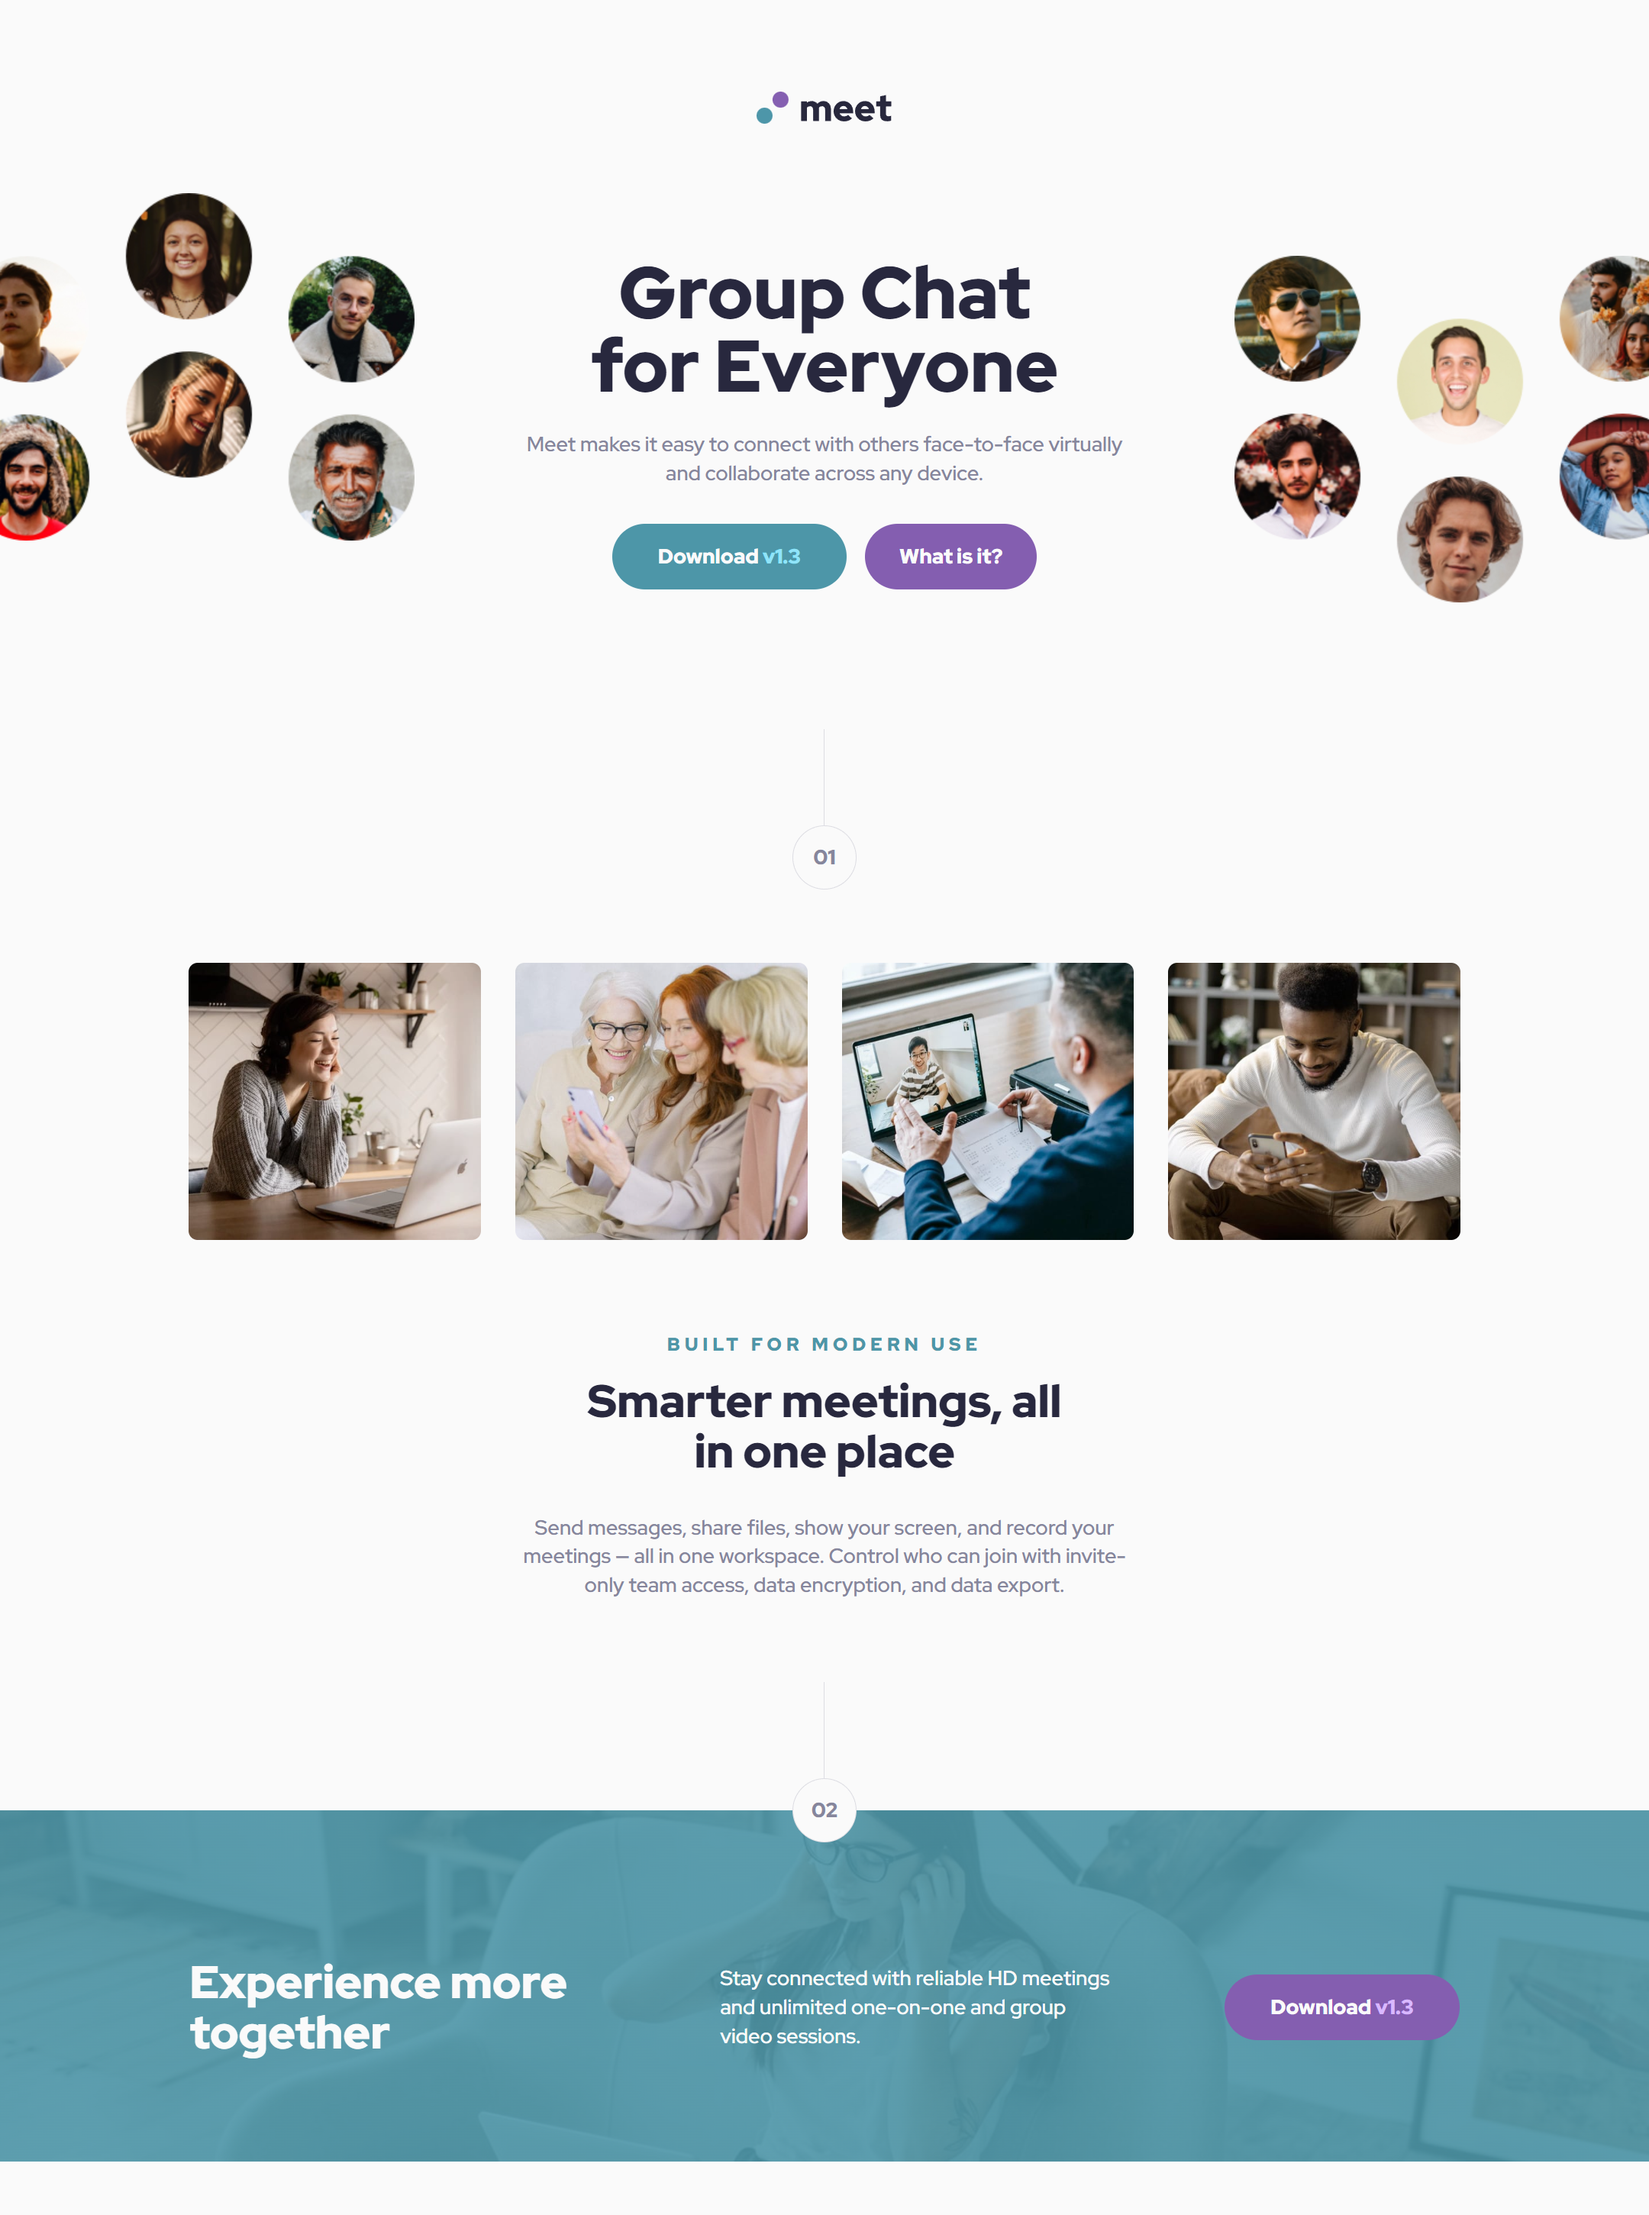
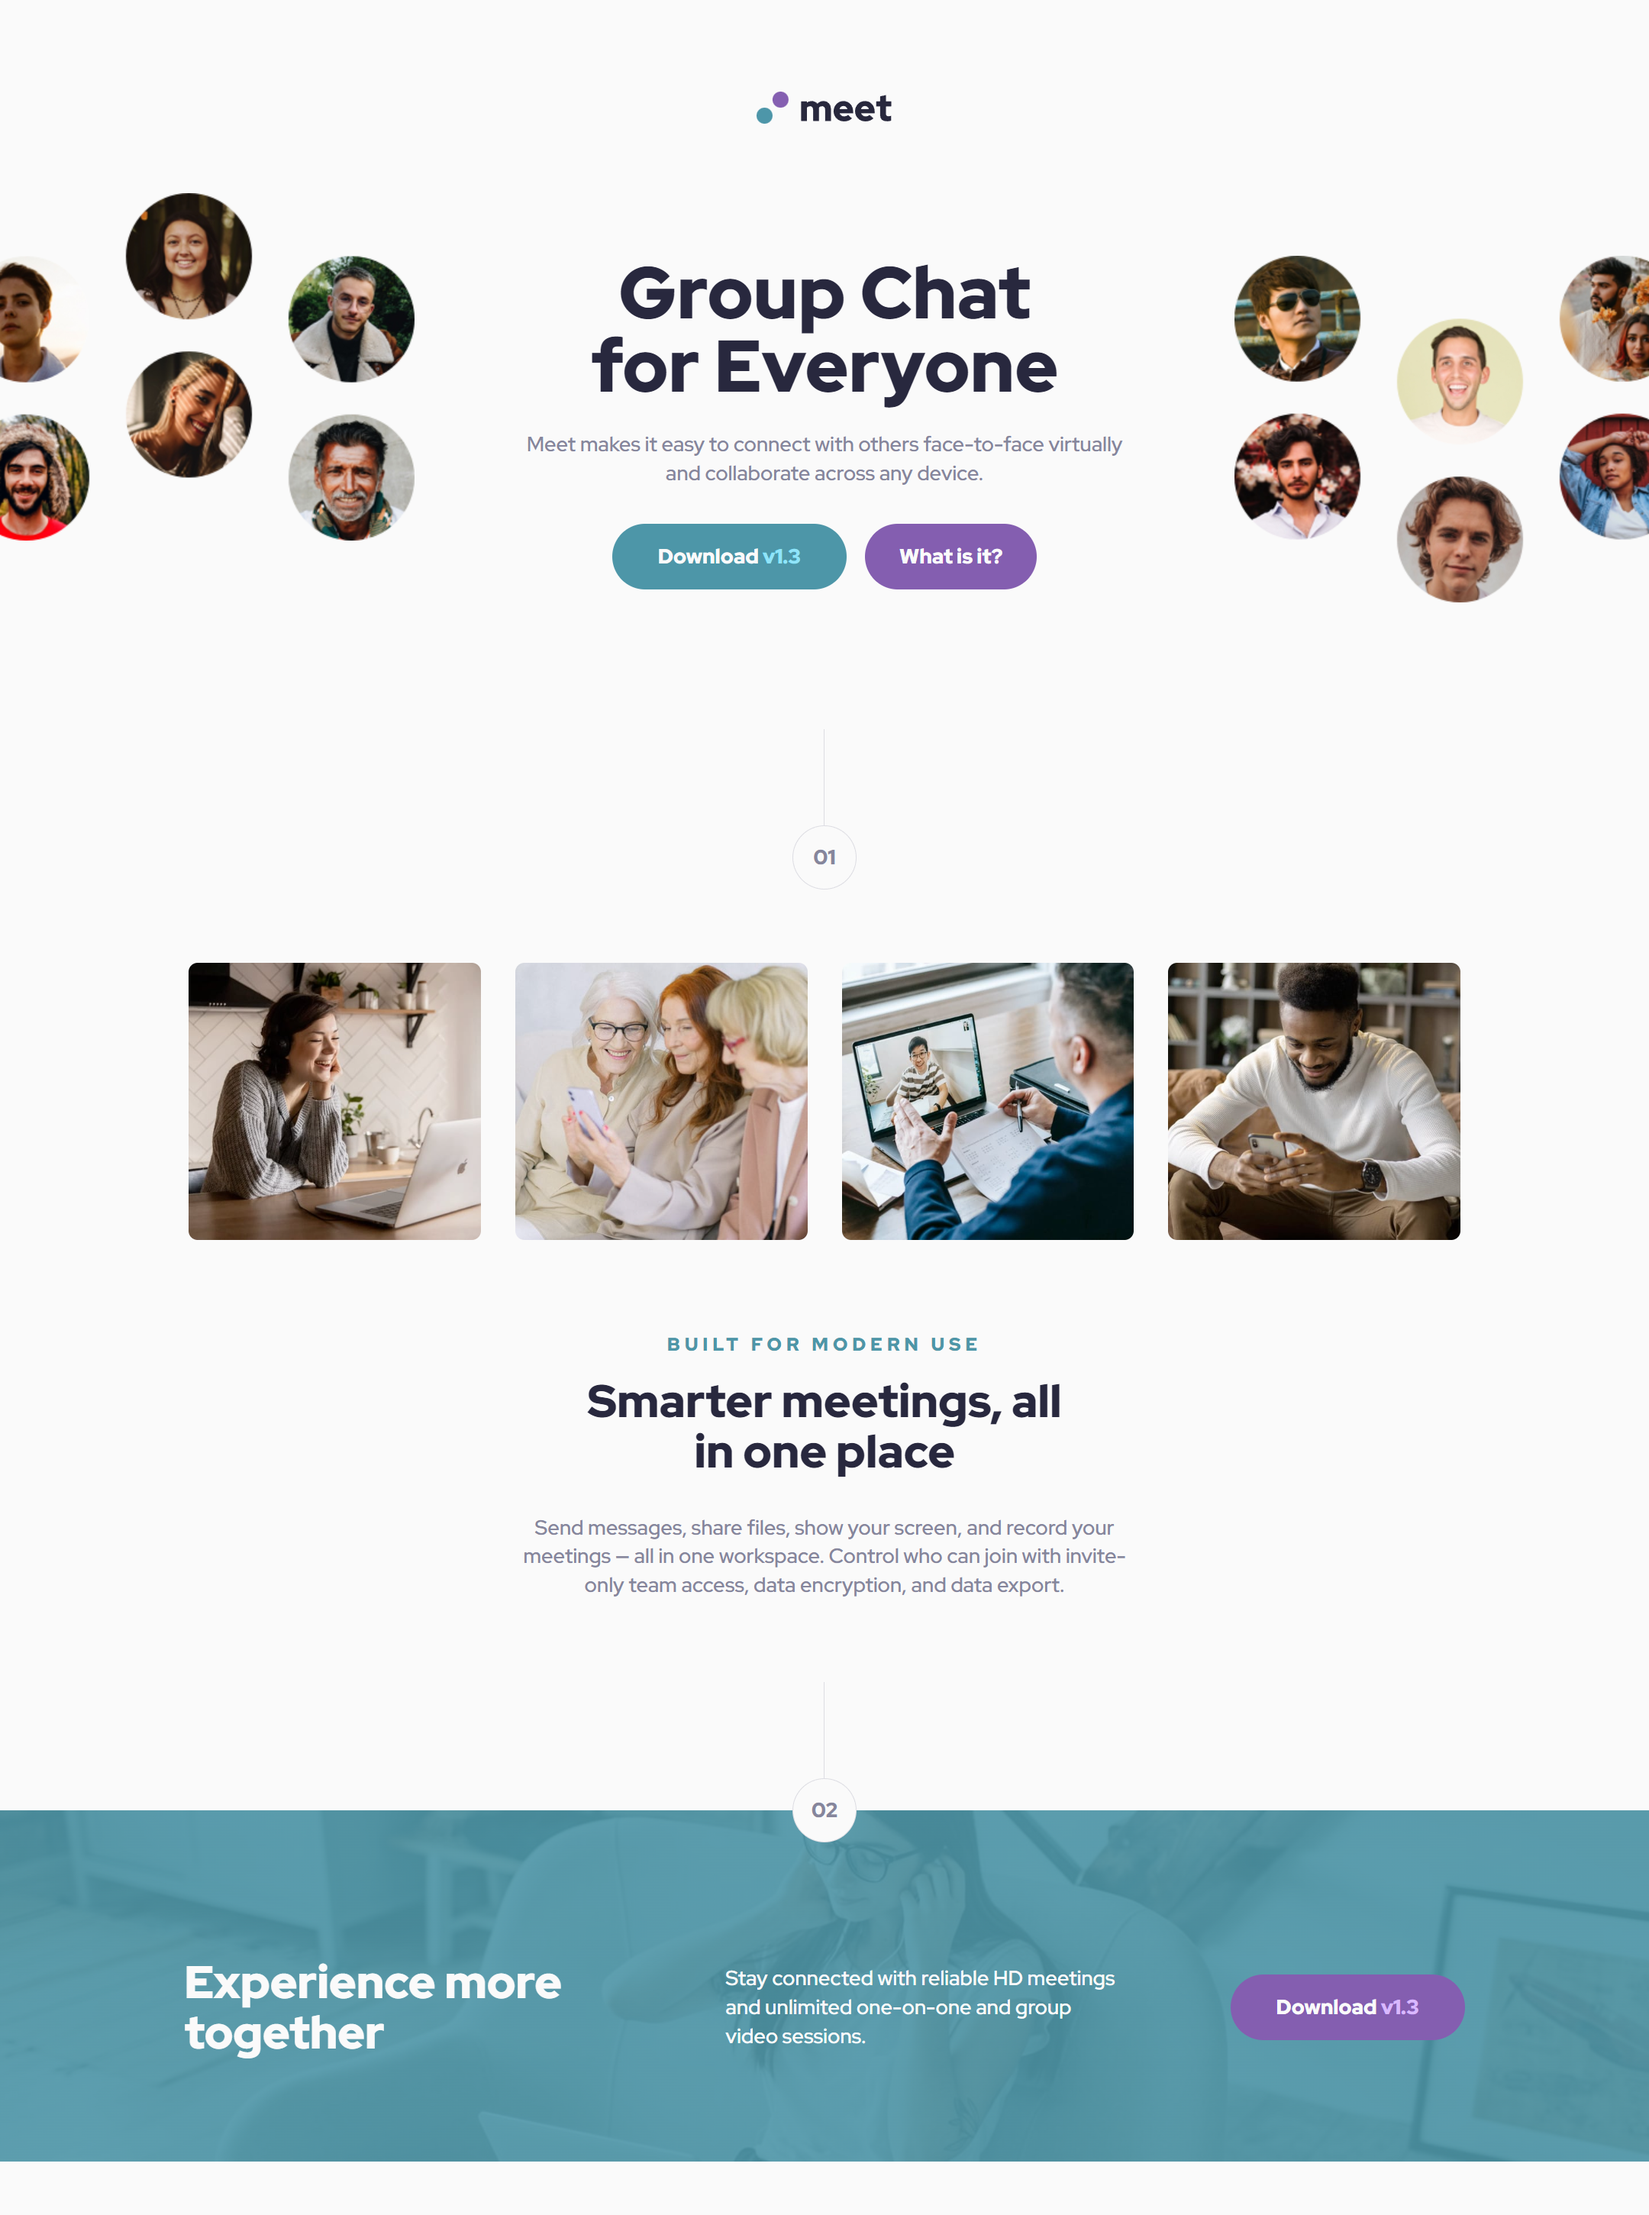
More style detail updates

Changed region(s): [[0.4343, 0.8687, 0.6824, 0.9307], [0.0931, 0.8687, 0.3412, 0.9307], [0.7755, 0.8997, 0.8685, 0.9307]]

diff --git a/scss/blocks/_cta.scss b/scss/blocks/_cta.scss
@@ -41,6 +41,7 @@
 }
 
 .cta__content {
+    flex-direction: column;
     max-width: 69.4rem;
 
     @include breakpoint(tablet) {
@@ -54,20 +55,23 @@
     }
 
     @include breakpoint(desktop) {
-        grid-template-columns: repeat(2, 21.875rem) 1fr;
+        flex-direction: row;
         gap: 5.75rem;
 
         p {
             margin-top: 0;
+            margin-left: 2rem;
+            min-width: 21.8rem;
         }
 
         h2 {
             margin-inline: 0;
-            padding-right: 2rem;
+            min-width: 21.8rem;
         }
 
         .button {
             margin-top: 0;
+            white-space: nowrap;
         }
     }
 }

diff --git a/style.css b/style.css
@@ -463,6 +463,7 @@ header {
 }
 
 .cta__content {
+  flex-direction: column;
   max-width: 69.4rem;
 }
 @media (min-width: 48rem) {
@@ -475,17 +476,20 @@ header {
 }
 @media (min-width: 80rem) {
   .cta__content {
-    grid-template-columns: repeat(2, 21.875rem) 1fr;
+    flex-direction: row;
     gap: 5.75rem;
   }
   .cta__content p {
     margin-top: 0;
+    margin-left: 2rem;
+    min-width: 21.8rem;
   }
   .cta__content h2 {
     margin-inline: 0;
-    padding-right: 2rem;
+    min-width: 21.8rem;
   }
   .cta__content .button {
     margin-top: 0;
+    white-space: nowrap;
   }
 }

diff --git a/index.html b/index.html
@@ -109,7 +109,7 @@
                 </div>
 
                 <div class="[ cta ] [ grid-center ]">
-                    <div class="[ cta__content ] [ grid-center flow ]">
+                    <div class="[ cta__content ] [ flex-center flow ]">
                         <h2 class="[ text-neutral-200 ]">
                             Experience more together
                         </h2>
